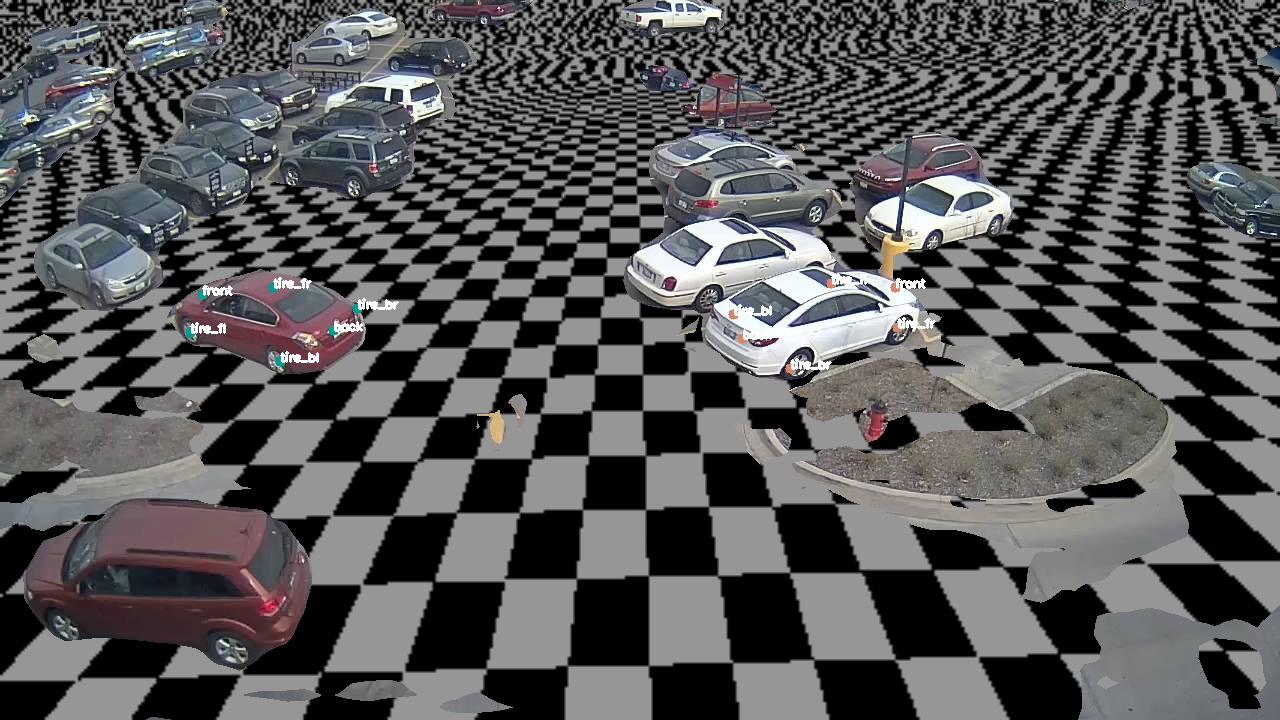
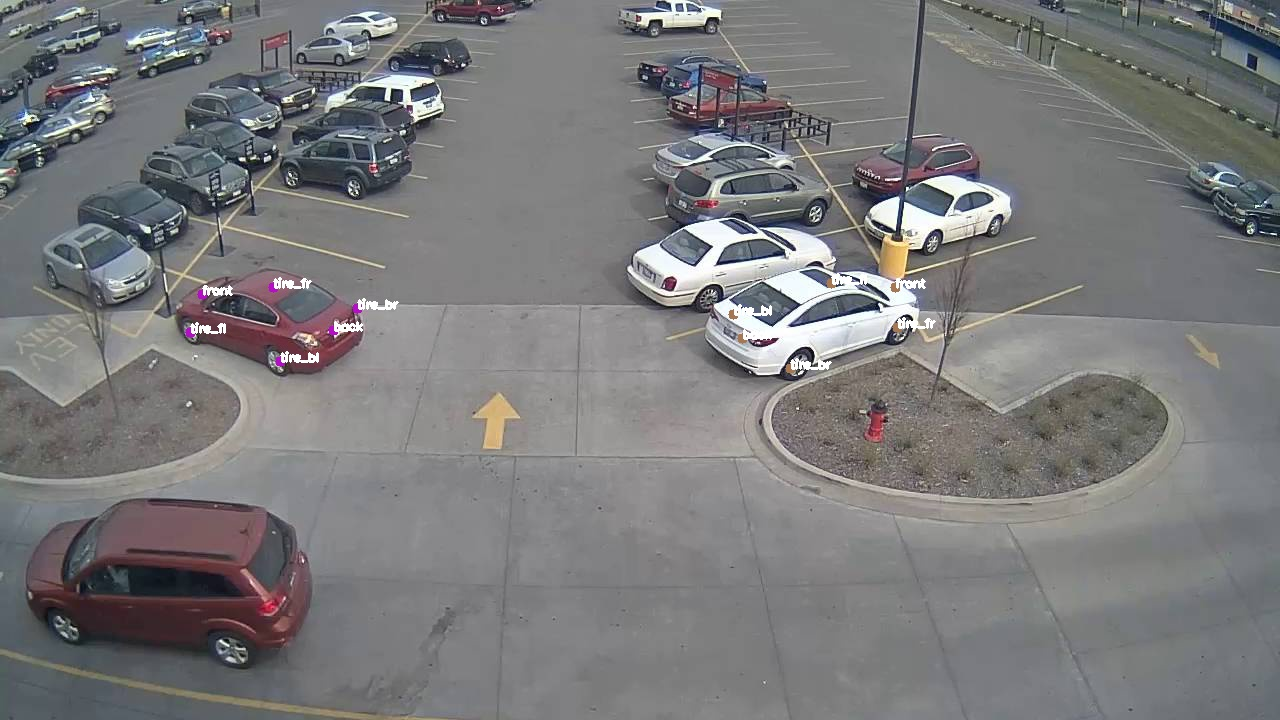
readme

diff --git a/src/vis.py b/src/vis.py
@@ -104,7 +104,7 @@ if __name__ == "__main__":
     camera_params = [6.8574390102580356, 399.82839300101642, 0.86950537352213109, -0.015051591866106547]
     car_params_all = [[-1.18892403,  6.24860725,  6.79912993], [ 1.15937309,  5.89879014, -2.23985101]]
 
-    drawn = visualize_all(img, camera_params, car_params_all, category_mask=cm)
+    drawn = visualize_all(img, camera_params, car_params_all, category_mask=None)
     cv2.imshow("", drawn)
     cv2.waitKey(0)
 

diff --git a/src/main.py b/src/main.py
@@ -83,7 +83,7 @@ if __name__ == "__main__":
     # car_params_all = [[-1.18892403,  6.24860725,  6.79912993], [ 1.15937309,  5.89879014, -2.23985101]]
 
     total_loss(camera_params, car_params_all, CARS_GT, img.shape)
-    drawn = vis.visualize_all(img, camera_params, car_params_all, category_mask=cm)
+    drawn = vis.visualize_all(img, camera_params, car_params_all, category_mask=None)
 
     # cv2.imshow("", img)
     # cv2.waitKey(0)

diff --git a/README.md b/README.md
@@ -16,16 +16,15 @@ python main.py
 ```
 
 ## Results:
-![Original](data/parking_lot.jpg)
-![New](examples/keypoints.jpg)
-![New](examples/vis_cars.jpg)
-![New](examples/vis_above.jpg)
-![New](examples/vis_all.jpg)
+![](examples/keypoints.jpg)
+![](examples/vis_cars.jpg)
+![](examples/vis_above.jpg)
+![](examples/vis_all.jpg)
 
 
 ## Coordinate System
 * World coordinates
-![Original](examples/pinhole_camera_model.png)
+![](examples/pinhole_camera_model.png)
 * Camera coordinates
 
 
